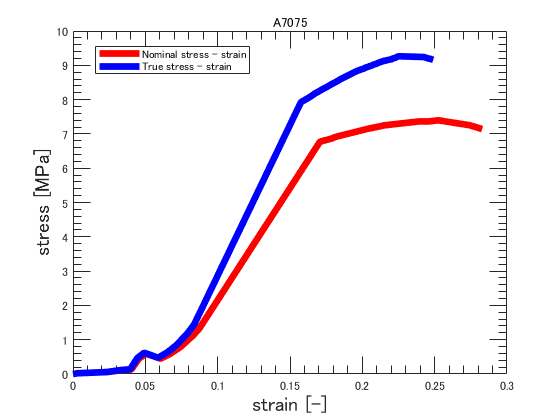
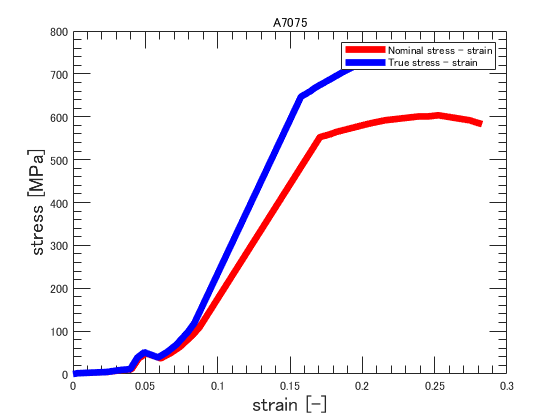
add homework

diff --git a/Experiment1.m b/Experiment1.m
@@ -11,21 +11,30 @@ FC250_data     = readtable('FC250_data.xlsx');
 A7075_data     = readtable('A7075_data.xlsx');
 ADD_data       = readtable('ADD_data.xlsx');
 
-SS400 = calc_str(SS400_data, Data.Tensile.PreArea.SS400, Data.Tensile.stroke.SS400, Data.Tensile.PreLength.SS400);
-FC250 = calc_str(FC250_data, Data.Tensile.PreArea.FC250, Data.Tensile.stroke.FC250, Data.Tensile.PreLength.FC250);
-A7075 = calc_str(A7075_data, Data.Tensile.PreArea.A7075, Data.Tensile.stroke.A7075, Data.Tensile.PreLength.A7075);
+SS400_Ten = calc_str(SS400_data, Data.Tensile.PreArea.SS400, Data.Tensile.stroke.SS400, Data.Tensile.PreLength.SS400, Data.Tensile.Puy.SS400, Data.Tensile.Ply.SS400, Data.Tensile.MaxStress.SS400, Data.Tensile.Pz.SS400);
+FC250_Ten = calc_str(FC250_data, Data.Tensile.PreArea.FC250, Data.Tensile.stroke.FC250, Data.Tensile.PreLength.FC250, Data.Tensile.Puy.FC250, Data.Tensile.Ply.FC250, Data.Tensile.MaxStress.FC250, Data.Tensile.Pz.FC250);
+A7075_Ten = calc_str(A7075_data, Data.Tensile.PreArea.A7075, Data.Tensile.stroke.A7075, Data.Tensile.PreLength.A7075, Data.Tensile.Puy.A7075, Data.Tensile.Ply.A7075, Data.Tensile.MaxStress.A7075, Data.Tensile.Pz.A7075);
 SS400_ADD = calc_ADDstr(ADD_data, Data.Additional.PreArea.SS400, Data.Additional.PreLength.SS400);
 
-function Materials = calc_str(Materials_data, Prearea, stroke, PreL)
+
+
+function Materials = calc_str(Materials_data, Prearea, stroke, PreL, Puy, Ply, Pmax, Pz)
     Hori = Materials_data.Var1;
     Vert = Materials_data.Var2;
     Hori_L = stroke/Hori(end);
     for i=1:length(Hori)
     Materials.NominalStrain(i) = Hori(i)*Hori_L/PreL;
-    Materials.NominalStress(i) = Vert(i)/Prearea*10^3; % [Mpa]
+    Materials.NominalStress(i) = Vert(i)*15/Prearea*10^3; % [Mpa]
     Materials.TrueStrain(i) = log(1 + Materials.NominalStrain(i));
     Materials.TrueStress(i) = Materials.NominalStress(i)*(1 + Materials.NominalStrain(i));
-    end    
+    end
+    Materials.sigmaUY = Puy / Prearea*10^3;
+    Materials.sigmaLY = Ply / Prearea*10^3;
+    Materials.sigmaUTS = Pmax / Prearea*10^3;
+    Materials.sigmaT = Pz / Prearea*10^3;
+    Materials.delta = abs(Materials.NominalStrain(end) - 1) *100;
+    Materials.phi = abs(max(Materials.NominalStress)/max(Materials.TrueStress) - 1)*100;
+    Materials.E = (Materials.NominalStress(14) -Materials.NominalStress(13))/(Materials.NominalStrain(14) - Materials.NominalStrain(13));
 end
 
 function Materials = calc_ADDstr(Materials_data, Prearea, PreL)
@@ -34,36 +43,77 @@ function Materials = calc_ADDstr(Materials_data, Prearea, PreL)
     Hori_L = 0.2;
     for i=1:length(Hori)
     Materials.NominalStrain(i) = Hori(i)*Hori_L/PreL;
-    Materials.NominalStress(i) = Vert(i)/Prearea*10^3; % [Mpa]
+    Materials.NominalStress(i) = Vert(i)*15/Prearea*10^3; % [Mpa]
     Materials.TrueStrain(i) = log(1 + Materials.NominalStrain(i));
     Materials.TrueStress(i) = Materials.NominalStress(i)*(1 + Materials.NominalStrain(i));
-    end    
+    end
+    Materials.E = (Materials.NominalStress(3) - Materials.NominalStress(2))/(Materials.NominalStrain(3) - Materials.NominalStrain(2));
 end
 
+% 課題6
 figure
-plot(SS400.NominalStrain, SS400.NominalStress,'Color','red','LineStyle','-','LineWidth',5); hold on
-plot(SS400.TrueStrain, SS400.TrueStress,'Color','blue','LineStyle','-','LineWidth',5);
+plot(SS400_Ten.NominalStrain, SS400_Ten.NominalStress,'Color','red','LineStyle','-','LineWidth',5); hold on
+plot(SS400_Ten.TrueStrain, SS400_Ten.TrueStress,'Color','blue','LineStyle','-','LineWidth',5);
 xlabel('strain [-]','FontSize',15); ylabel('stress [MPa]','FontSize',15); title('SS400');
 ax = gca; ax.XMinorTick = 'on'; ax.YMinorTick = 'on'; ax.TickLength = [0.04, 0.025];
 legend('Nominal stress - strain', 'True stress - strain')
 
 figure
-plot(FC250.NominalStrain, FC250.NominalStress,'Color','red','LineStyle','-','LineWidth',5); hold on
-plot(FC250.TrueStrain, FC250.TrueStress,'Color','blue','LineStyle','-','LineWidth',5);
+plot(FC250_Ten.NominalStrain, FC250_Ten.NominalStress,'Color','red','LineStyle','-','LineWidth',5); hold on
+plot(FC250_Ten.TrueStrain, FC250_Ten.TrueStress,'Color','blue','LineStyle','-','LineWidth',5);
 xlabel('strain [-]','FontSize',15); ylabel('stress [MPa]','FontSize',15); title('FC250');
 ax = gca; ax.XMinorTick = 'on'; ax.YMinorTick = 'on'; ax.TickLength = [0.04, 0.025];
 legend('Nominal stress - strain', 'True stress - strain')
 
 figure
-plot(A7075.NominalStrain, A7075.NominalStress,'Color','red','LineStyle','-','LineWidth',5); hold on
-plot(A7075.TrueStrain, A7075.TrueStress,'Color','blue','LineStyle','-','LineWidth',5);
+plot(A7075_Ten.NominalStrain, A7075_Ten.NominalStress,'Color','red','LineStyle','-','LineWidth',5); hold on
+plot(A7075_Ten.TrueStrain, A7075_Ten.TrueStress,'Color','blue','LineStyle','-','LineWidth',5);
 xlabel('strain [-]','FontSize',15); ylabel('stress [MPa]','FontSize',15); title('A7075');
 ax = gca; ax.XMinorTick = 'on'; ax.YMinorTick = 'on'; ax.TickLength = [0.04, 0.025];
 legend('Nominal stress - strain', 'True stress - strain')
 
+% 課題9
+disp('【課題9】')
+fprintf('ヤング率は %.2f GPa です.\n', max(SS400_ADD.E)/10^3);
+
+% 課題10
+disp('【課題10】')
+fprintf('最大荷重時の公称応力は %.2f MPa です.\n', max(SS400_ADD.NominalStress));
+fprintf('最大荷重時の真応力は %.2f MPa です.\n', max(SS400_ADD.TrueStress));
+
+% 課題11
 figure
-plot(SS400_ADD.NominalStrain, SS400_ADD.NominalStress,'Color','red','LineStyle','-','LineWidth',5); hold on
 plot(SS400_ADD.TrueStrain, SS400_ADD.TrueStress,'Color','blue','LineStyle','-','LineWidth',5);
 xlabel('strain [-]','FontSize',15); ylabel('stress [MPa]','FontSize',15); title('aditional');
 ax = gca; ax.XMinorTick = 'on'; ax.YMinorTick = 'on'; ax.TickLength = [0.04, 0.025];
-legend('Nominal stress - strain', 'True stress - strain')
+legend('True stress - strain')
+
+% 課題12
+figure
+plot(SS400_Ten.NominalStrain, SS400_Ten.NominalStress,'Color','red','LineStyle','-','LineWidth',5); hold on
+plot(SS400_ADD.NominalStrain, SS400_ADD.NominalStress,'Color','blue','LineStyle','-','LineWidth',5);
+xlabel('strain [-]','FontSize',15); ylabel('stress [MPa]','FontSize',15); title('aditional Nominal');
+ax = gca; ax.XMinorTick = 'on'; ax.YMinorTick = 'on'; ax.TickLength = [0.04, 0.025];
+legend('伸び計：使用','伸び計：不使用')
+
+figure
+plot(SS400_Ten.TrueStrain, SS400_Ten.TrueStress,'Color','red','LineStyle','-','LineWidth',5); hold on
+plot(SS400_ADD.TrueStrain, SS400_ADD.TrueStress,'Color','blue','LineStyle','-','LineWidth',5);
+xlabel('strain [-]','FontSize',15); ylabel('stress [MPa]','FontSize',15); title('aditional True');
+ax = gca; ax.XMinorTick = 'on'; ax.YMinorTick = 'on'; ax.TickLength = [0.04, 0.025];
+legend('伸び計：使用','伸び計：不使用')
+
+% 課題13
+Materials = calc_Charpy(beta);
+function Materials = calc_Charpy(beta)
+m = 25.093;
+g = 8.91;
+r = 0.6513;
+alpha_MAX = 146.5;
+C = 30;
+L = 0.7502;
+alpha = 145;
+K = m*g*r*(cos(beta) - cos(alpha)) - L;
+% rho = K*area;
+L_los = m*g*r*(cos(beta) - cos(alpha));
+end
